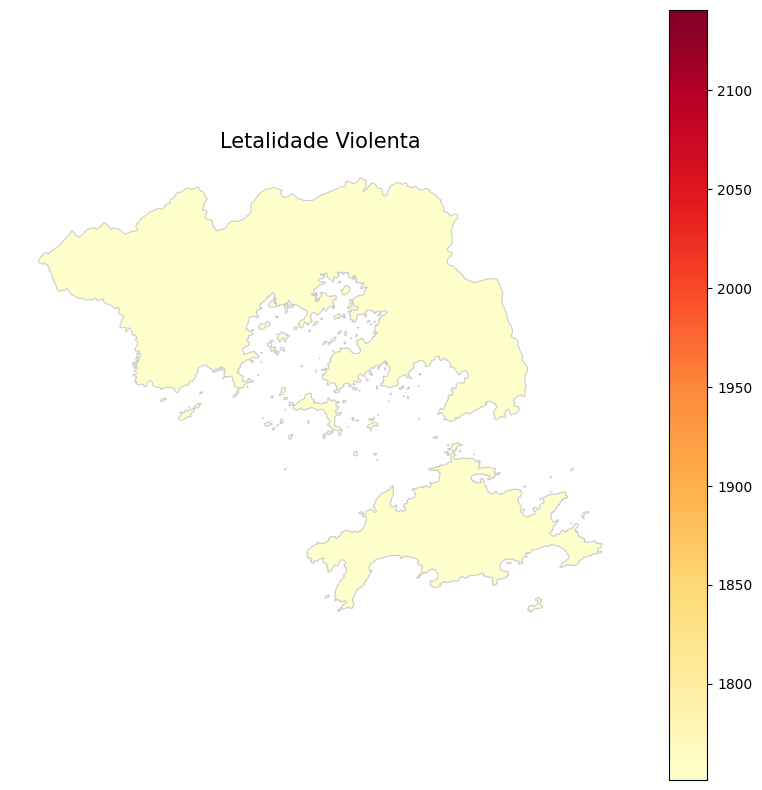
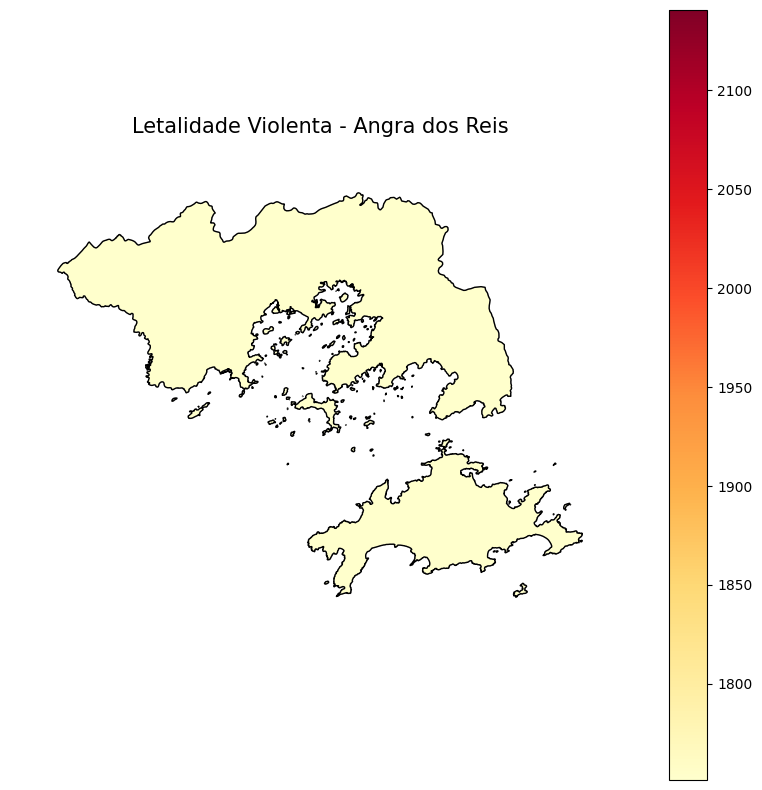
Ajustes no mapa agrupado por cisp do filtro de município

diff --git a/crime_monitor/backend/app.py b/crime_monitor/backend/app.py
@@ -1072,47 +1072,61 @@ def map_image(group_by):
 
     # 🔹 Soma letalidade por agrupamento
     df_grouped = df.groupby(group_by)["letalidade_violenta"].sum().reset_index()
-    df_grouped[group_by] = df_grouped[group_by].astype(str)
-    gdf[shapefile_col] = gdf[shapefile_col].astype(str)
-    gdf = gdf.merge(df_grouped, left_on=shapefile_col, right_on=group_by, how="left")
-    gdf["letalidade_violenta"] = gdf["letalidade_violenta"].fillna(0)
 
-    # 🔹 Define colunas de código e nome conforme agrupamento
-    if group_by == "mcirc":
-        nome_col = "NM_MUN"
-        codigo_col = "CD_MUN"
+    if group_by == "cisp":
+        # --- CISP ---
+        cisp_gdf = gpd.read_file(SHAPEFILES["cisp"])
+        if cisp_gdf.crs is None:
+            cisp_gdf = cisp_gdf.set_crs(epsg=4326)
 
-        # Garante que NM_MUN existe
-        if nome_col not in gdf.columns:
-            municipios_ref = gpd.read_file(SHAPEFILES["mcirc"])[["CD_MUN", "NM_MUN"]]
-            municipios_ref["CD_MUN"] = municipios_ref["CD_MUN"].astype(str)
-            gdf = gdf.merge(municipios_ref, on="CD_MUN", how="left")
+        # Converter tipos para merge
+        cisp_gdf['cisp'] = cisp_gdf['cisp'].astype(int)
+        df_grouped['cisp'] = df_grouped['cisp'].astype(int)
 
-    elif group_by == "cisp":
-        nome_col = "NOME_CISP" if "NOME_CISP" in gdf.columns else shapefile_col
-        codigo_col = shapefile_col
+        # Filtrar CISPs dentro do município
+        if municipio:
+            mcirc_gdf = gpd.read_file(SHAPEFILES["mcirc"])[["NM_MUN", "geometry"]]
+            if mcirc_gdf.crs is None:
+                mcirc_gdf = mcirc_gdf.set_crs(epsg=4326)
+            if mcirc_gdf.crs != cisp_gdf.crs:
+                mcirc_gdf = mcirc_gdf.to_crs(cisp_gdf.crs)
 
-    elif group_by == "aisp":
-        nome_col = "NOME_AISP" if "NOME_AISP" in gdf.columns else shapefile_col
-        codigo_col = shapefile_col
+            mcirc_gdf["NM_MUN"] = mcirc_gdf["NM_MUN"].str.strip().str.lower()
+            mun_shape = mcirc_gdf[mcirc_gdf["NM_MUN"] == municipio.strip().lower()]
+            if mun_shape.empty:
+                return jsonify({"error": f"Município '{municipio}' não encontrado"}), 404
 
-    elif group_by == "risp":
-        nome_col = "NOME_RISP" if "NOME_RISP" in gdf.columns else shapefile_col
-        codigo_col = shapefile_col
+            # Mantém apenas CISPs que intersectam o município
+            cisp_gdf = cisp_gdf[cisp_gdf.geometry.intersects(mun_shape.unary_union)]
+
+        # Merge com letalidade
+        gdf = cisp_gdf.merge(df_grouped, left_on="cisp", right_on="cisp", how="left")
+        gdf["letalidade_violenta"] = gdf["letalidade_violenta"].fillna(0)
+        nome_col = "cisp"
+        codigo_col = "cisp"
 
     else:
-        nome_col = shapefile_col
-        codigo_col = shapefile_col
+        # --- Outros agrupamentos (inclusive mcirc) ---
+        df_grouped[group_by] = df_grouped[group_by].astype(str)
+        gdf[shapefile_col] = gdf[shapefile_col].astype(str)
+        gdf = gdf.merge(df_grouped, left_on=shapefile_col, right_on=group_by, how="left")
+        gdf["letalidade_violenta"] = gdf["letalidade_violenta"].fillna(0)
 
-    # 🔹 Cria colunas caso ainda não existam
-    if nome_col not in gdf.columns:
-        gdf[nome_col] = ""
-    if codigo_col not in gdf.columns:
-        gdf[codigo_col] = ""
+        if group_by == "mcirc":
+            nome_col = "NM_MUN"
+            codigo_col = "CD_MUN"
+        else:
+            nome_col = shapefile_col
+            codigo_col = shapefile_col
 
-    # 🔹 Filtra por município, se aplicável
-    if municipio and nome_col in gdf.columns:
-        gdf = gdf[gdf[nome_col] == municipio]
+        # Filtra pelo município
+        if municipio and nome_col in gdf.columns:
+            municipio_lower = municipio.strip().lower()
+            gdf = gdf[gdf[nome_col].str.strip().str.lower() == municipio_lower]
+
+    # 🔹 Verifica se há dados
+    if gdf.empty or gdf.geometry.is_empty.all():
+        return jsonify({"error": f"Nenhum dado encontrado para o município '{municipio}'"}), 404
 
     # 🔹 Gera o mapa
     fig, ax = plt.subplots(1, 1, figsize=(10, 10))
@@ -1124,19 +1138,28 @@ def map_image(group_by):
         edgecolor='0.8',
         legend=True
     )
-    ax.set_axis_off()
-    plt.title("Letalidade Violenta", fontsize=15)
 
-    params_str = f"{group_by}_{inicio}_{fim}_{municipio}".replace(" ", "_").replace(":", "_")
+    # 🔹 Zoom automático se filtrou município
+    if municipio:
+        gdf.boundary.plot(ax=ax, color='black', linewidth=1)
+        minx, miny, maxx, maxy = gdf.total_bounds
+        ax.set_xlim(minx - 0.05, maxx + 0.05)
+        ax.set_ylim(miny - 0.05, maxy + 0.05)
+
+    ax.set_axis_off()
+    plt.title(f"Letalidade Violenta - {municipio or 'RJ'}", fontsize=15)
+
+    # 🔹 Salva a imagem
+    params_str = f"{group_by}_{inicio}_{fim}_{municipio or 'RJ'}".replace(" ", "_").replace(":", "_")
     image_name = f"{params_str}.png"
     image_path = os.path.join(MAP_FOLDER, image_name)
     plt.savefig(image_path, bbox_inches="tight")
     plt.close(fig)
 
-    # 🔹 Normaliza e exporta os dados corretos
+    # 🔹 Retorna dados
     gdf["letalidade_violenta"] = gdf["letalidade_violenta"].fillna(0)
-    gdf[nome_col] = gdf[nome_col].fillna("")
-    gdf[codigo_col] = gdf[codigo_col].fillna("")
+    gdf[nome_col] = gdf.get(nome_col, "").fillna("")
+    gdf[codigo_col] = gdf.get(codigo_col, "").fillna("")
 
     data_saida = gdf[[codigo_col, nome_col, "letalidade_violenta"]].drop_duplicates().to_dict(orient="records")
 
@@ -1144,7 +1167,7 @@ def map_image(group_by):
         "image_url": f"/static/img/{image_name}",
         "data": data_saida
     })
-    
+
 # ===========================
 # API - Features do modelo
 # ===========================
@@ -1431,97 +1454,80 @@ def mapa_clusters():
     group_by = request.args.get("group_by", "mcirc")
     inicio = request.args.get("inicio")
     fim = request.args.get("fim")
+    municipio = request.args.get("municipio")  # <--- filtro adicionado
 
     print(f"Gerando mapa de clusters agrupados por {group_by}...")
+
     shapefile = SHAPEFILES.get(group_by)
     shapefile_col = COLUMN_MAPPING.get(group_by)
     if not shapefile or not shapefile_col:
         return jsonify({"error": "Agrupamento inválido"}), 400
 
-    # carrega shapefile e garante CRS
+    # --- Carrega shapefile ---
     gdf = gpd.read_file(shapefile)
     if gdf.crs is None:
         gdf = gdf.set_crs(epsg=4326)
 
-    # copia apenas os clusters calculados anteriormente
+    # --- Dados de clusters já calculados ---
     df = df_clusters_global.copy()
 
-    # === Filtros de data (para consistência visual) ===
+    # --- Filtros de data ---
     df["data"] = pd.to_datetime(df["ano"].astype(str) + "-" + df["mes"].astype(str) + "-01")
     if inicio:
         df = df[df["data"] >= pd.to_datetime(inicio)]
     if fim:
         df = df[df["data"] <= pd.to_datetime(fim)]
 
-    # === Prepara dados agrupados por região ===
+    # --- Agrupa por região ---
     if group_by not in df.columns:
         return jsonify({"error": f"Coluna '{group_by}' não encontrada nos dados."}), 400
 
     df_grouped = df.groupby(group_by).agg({
-        "cluster": lambda x: x.mode()[0] if not x.mode().empty else -1  # cluster predominante
+        "cluster": lambda x: x.mode()[0] if not x.mode().empty else -1
     }).reset_index()
 
-    # === Merge com shapefile ===
+    # --- Merge com shapefile ---
     gdf[shapefile_col] = gdf[shapefile_col].astype(str)
     df_grouped[group_by] = df_grouped[group_by].astype(str)
     gdf = gdf.merge(df_grouped, left_on=shapefile_col, right_on=group_by, how="left")
     gdf["cluster"] = gdf["cluster"].fillna(-1).astype(int)
 
-    # === Paleta de cores fixa ===
+    # --- Paleta de cores fixa ---
     default_fixed = {
-        0:  "#1f77b4",  # azul forte
-        1:  "#ff7f0e",  # laranja vibrante
-        2:  "#2ca02c",  # verde médio
-        3:  "#d62728",  # vermelho
-        4:  "#9467bd",  # roxo
-        5:  "#8c564b",  # marrom
-        6:  "#e377c2",  # rosa
-        7:  "#17becf",  # ciano
-        8:  "#bcbd22",  # oliva
-        9:  "#7f7f7f",  # cinza neutro
-        10: "#000000",  # preto
-        11: "#ff1493",  # pink neon
-        12: "#228b22",  # verde floresta
-        13: "#ffd700",  # amarelo ouro
-        14: "#00ffff",  # ciano puro
-        15: "#ff4500",  # laranja avermelhado
-        16: "#4169e1",  # azul royal
-        17: "#ff00ff",  # magenta
-        18: "#ff8c00",  # laranja escuro (substitui o verde escuro)
-        19: "#a52a2a",  # marrom escuro
-        20: "#00ff00",  # verde neon
-        21: "#ff6347",  # tomate
-        22: "#40e0d0",  # turquesa
-        23: "#b22222",  # vermelho ferrugem
-        24: "#9932cc",  # roxo violeta
-        25: "#ffa500",  # laranja puro
-        26: "#4682b4",  # azul aço
-        27: "#adff2f",  # verde-limão
-        28: "#dc143c",  # carmesim
-        29: "#00ced1",  # azul-petróleo
-        30: "#8b008b",  # púrpura escuro
-        31: "#ff69b4",  # rosa claro
-        32: "#9acd32",  # verde amarelado
-        33: "#6495ed",  # azul claro
-        34: "#ffb6c1",  # rosa bebê
-        35: "#8b0000",  # vermelho escuro
-        36: "#2f4f4f",  # cinza-azulado escuro
-        -1: "#cccccc"   # neutro
+        0: "#1f77b4", 1: "#ff7f0e", 2: "#2ca02c", 3: "#d62728", 4: "#9467bd",
+        5: "#8c564b", 6: "#e377c2", 7: "#17becf", 8: "#bcbd22", 9: "#7f7f7f",
+        10: "#000000", 11: "#ff1493", 12: "#228b22", 13: "#ffd700", 14: "#00ffff",
+        15: "#ff4500", 16: "#4169e1", 17: "#ff00ff", 18: "#ff8c00", 19: "#a52a2a",
+        20: "#00ff00", 21: "#ff6347", 22: "#40e0d0", 23: "#b22222", 24: "#9932cc",
+        25: "#ffa500", 26: "#4682b4", 27: "#adff2f", 28: "#dc143c", 29: "#00ced1",
+        30: "#8b008b", 31: "#ff69b4", 32: "#9acd32", 33: "#6495ed", 34: "#ffb6c1",
+        35: "#8b0000", 36: "#2f4f4f", -1: "#cccccc"
     }
 
     clusters_in_data = sorted(gdf["cluster"].unique())
-
-    fixed_colors = {}
-    for cluster in clusters_in_data:
-        fixed_colors[cluster] = default_fixed.get(cluster, f"#{np.random.randint(0, 0xFFFFFF):06x}")
-
+    fixed_colors = {c: default_fixed.get(c, f"#{np.random.randint(0, 0xFFFFFF):06x}") for c in clusters_in_data}
     gdf["color"] = gdf["cluster"].map(fixed_colors)
 
-    # === Plot ===
+    # --- 🔹 Identifica colunas de nome de município ---
+    nome_col = None
+    if "NM_MUN" in gdf.columns:
+        nome_col = "NM_MUN"
+    elif "NOME_MUNICIP" in gdf.columns:
+        nome_col = "NOME_MUNICIP"
+    elif "NOME_CISP" in gdf.columns:
+        nome_col = "NOME_CISP"
+
+    # --- 🔹 Filtro de município (se fornecido) ---
+    if municipio and nome_col and municipio in gdf[nome_col].unique():
+        gdf = gdf[gdf[nome_col] == municipio]
+
+    # --- 🔹 Plot do mapa ---
     fig, ax = plt.subplots(1, 1, figsize=(10, 10))
     gdf.plot(color=gdf["color"], linewidth=0.8, edgecolor='0.8', ax=ax)
     ax.set_axis_off()
-    plt.title("Mapa de Clusters de Criminalidade", fontsize=15)
+
+    titulo = f"Clusters de Criminalidade - {municipio}" if municipio else "Clusters de Criminalidade - RJ"
+    plt.title(titulo, fontsize=15)
 
     legend_elements = [
         Patch(facecolor=fixed_colors[i], edgecolor='0.8', label=f"Cluster {i}" if i >= 0 else "Sem dados")
@@ -1529,15 +1535,19 @@ def mapa_clusters():
     ]
     ax.legend(handles=legend_elements, title="Clusters", loc="lower left")
 
-    # nome do arquivo baseado nos filtros
-    params_str = f"clusters_{group_by}_{inicio}_{fim}".replace(" ", "_").replace(":", "_")
+    # --- 🔹 Salva imagem ---
+    params_str = f"clusters_{group_by}_{inicio}_{fim}_{municipio or 'RJ'}".replace(" ", "_").replace(":", "_")
     image_name = f"{params_str}.png"
     image_path = os.path.join(MAP_FOLDER, image_name)
 
     plt.savefig(image_path, bbox_inches="tight")
     plt.close(fig)
 
-    return jsonify({"mapa_clusters": f"/static/img/{image_name}", "data": gdf[[shapefile_col, "cluster"]].to_dict(orient="records")})
+    # --- Retorna JSON ---
+    return jsonify({
+        "mapa_clusters": f"/static/img/{image_name}",
+        "data": gdf[[shapefile_col, "cluster"]].to_dict(orient="records")
+    })
 
 @app.route("/api/predizer_cluster", methods=["POST"])
 def predizer_cluster():
